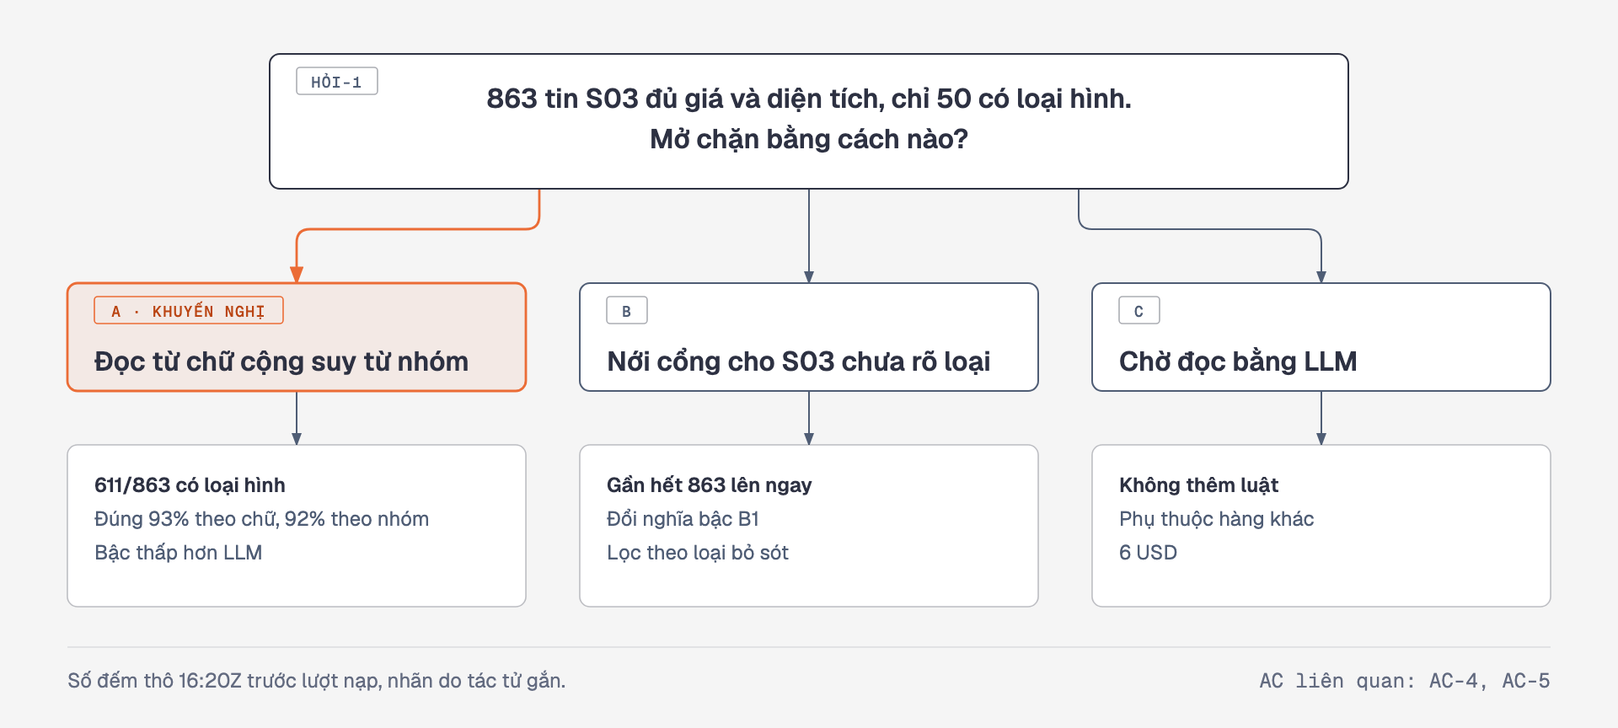
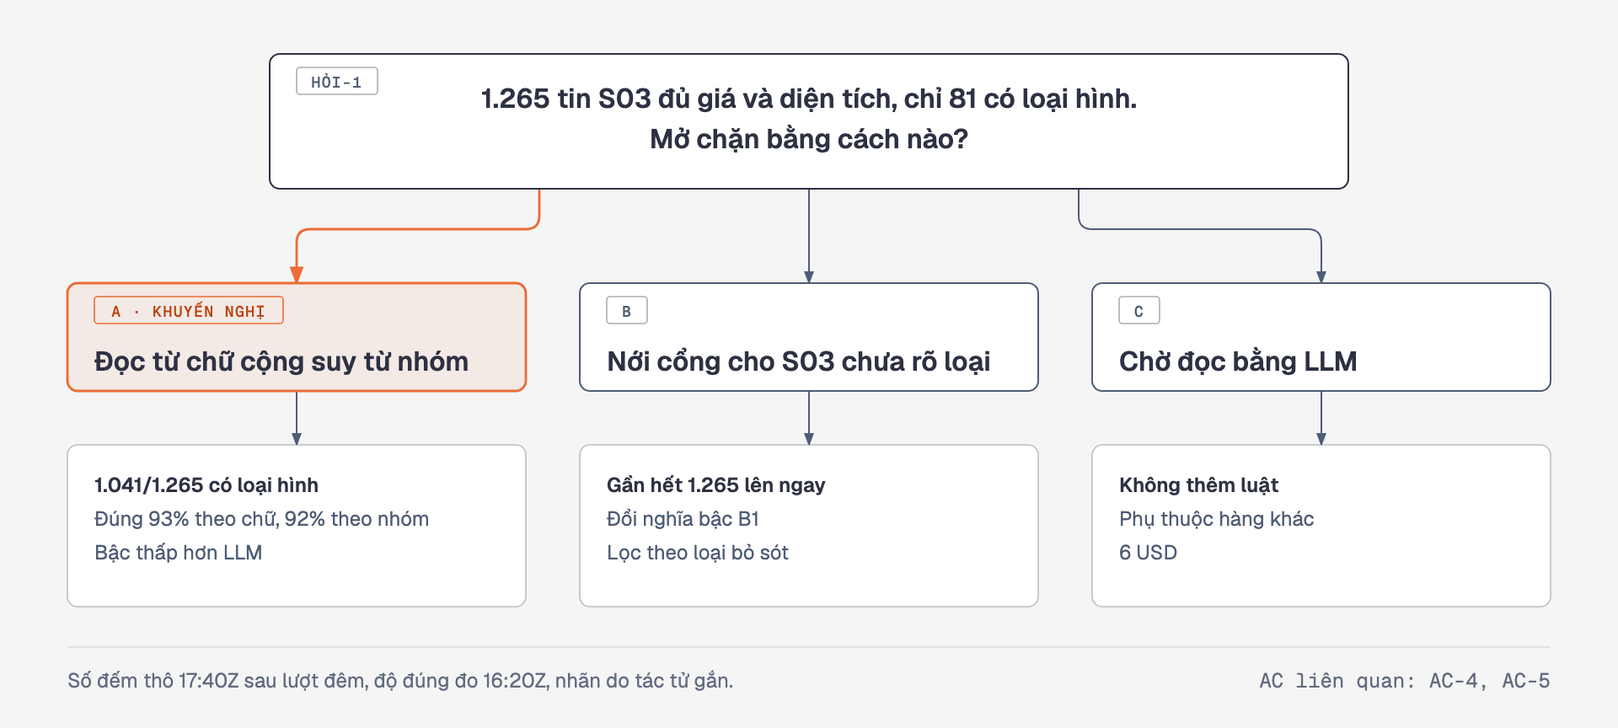
docs(s03-len-cong): đo lại sau lượt đêm, ước 839 tin lên cổng, hụt đích 900
Số 17:38Z trên DB chung khớp số giám sát đo 17:37Z. Ba câu Hỏi thay số cũ
bằng dòng sổ supersedes, thẻ và hai hình vẽ lại. Lượt đêm chưa chạy
reassign-areas rồi 300, 400; không cần chạy trước khi đo.

diff --git a/_acceptance/s03-len-cong/card.html b/_acceptance/s03-len-cong/card.html
@@ -32,16 +32,16 @@
 <div class="h"><div><div class="ft">Nhà đầu tư thấy tin S03 trên trang tin rao, kể cả tin không nói phường (hiện tên thị trường), kèm nhãn «Chưa xác minh».</div><div class="sub">Cổng 1 · duyệt tiêu chí TRƯỚC khi code</div></div><span class="chip amber">duyệt tiêu chí</span></div>
 <div class="lab">Hệ thống SẼ làm</div><div class="grp gdo"><p class="li">Sẽ gán khu vực theo sổ nhóm: nhóm thuộc đúng một thị trường thì tin không nói phường nhận tên thị trường; nhóm chưa khai hay khai nhiều thị trường giữ trống.</p><p class="li">Sẽ giữ nguyên số liệu thị trường và phường hiện có khi thêm các tin cấp thị trường.</p><p class="li">Sẽ đọc loại hình từ chữ bài và từ nhóm, in hai độ đúng riêng trên nhãn do tác tử gắn.</p><p class="li">Sẽ ghi loại hình đúng bậc tin cậy: đọc từ chữ cao hơn suy từ nhóm; đọc bằng LLM hay người vẫn thắng được; chạy lại không sinh thêm.</p><p class="li">Sẽ có lệnh khai sổ 30 nhóm và thẻ từ tệp nháp trên máy, chạy lại không đổi, không in khoá hay tên nhóm.</p><p class="li">Sẽ in phép đo toàn bộ: bao nhiêu tin rơi ở từng chặn của cổng, gồm số tin nhánh phường nơi khác.</p><p class="li">Sẽ hiện nhãn «Chưa xác minh» trên thẻ tin S03 và tên thị trường ở chỗ phường, đọc được trên điện thoại, sáng và tối.</p><p class="li">Sẽ báo đúng số tin lên cổng so với 900 và tỉ lệ sai nặng so với 10% trên mẫu 30 tin, không hạ thước; sau khi tin rao (#274) gộp mới đo.</p><p class="li">Sẽ giữ nguyên đường đưa dữ liệu lên cloud, không để tên nguồn thật, khoá nhóm hay chữ bài vào kho.</p></div>
 <div class="lab">Sẽ KHÔNG làm / sẽ chặn</div><div class="grp gnot"><p class="li">Sẽ KHÔNG để tin cấp thị trường vào thước theo phường, dấu hiệu giá hay ghép căn.</p><p class="li">Hoãn/cắt: Không suy phường từ tên dự án, không thêm nhóm S03.</p><p class="li">Hoãn/cắt: Không ghi dự án từ thẻ nhóm, không đọc bằng LLM; đó là việc của hàng đọc tin (LS1).</p><p class="li">Hoãn/cắt: Không tự áp sổ hay nạp lại trên dữ liệu chung; giám sát xếp lượt sau khi anh duyệt sổ. Số trên cloud đọc ở báo cáo 07:30.</p><p class="li">Hoãn/cắt: Không đổi đường đồng bộ lên cloud, không đưa sổ nhóm lên cloud.</p></div>
-<div class="lab">Câu chỉ anh trả lời được</div><div class="grp gdo"><p class="li" data-cau-hoi="Hỏi-1"><b>Hỏi-1</b> · Hỏi-1: chặn loại hình của cổng TR1 mở bằng đọc từ chữ cộng suy từ nhóm (khuyến nghị), hay nới cổng cho S03 chưa rõ loại, hay chờ LS1? — Đo 16:15Z: 863 tin qua ngưỡng giá chỉ 50 có loại hình; kế hoạch §3 không nêu chặn này. Đổi điều kiện cổng là nghĩa sản phẩm người dùng thấy. — sai thì tốn: Chọn sai thì hoặc tin sai loại lên cổng, hoặc S03 gần như không lên. — máy khuyên: Đọc từ chữ cộng suy từ nhóm: ghi bậc thấp hơn LLM, lên khoảng 611 trên 863 tin theo đếm thô, LS1 cộng thêm khi xong. · lối khác: Nới cổng cho S03 chưa rõ loại: lên ngay gần hết 863 tin nhưng đổi nghĩa bậc B1 và lọc theo loại bỏ sót chúng. Chờ LS1: không thêm luật nhưng SL1 phụ thuộc dãy khác và duyệt 6 USD.</p><p class="li" data-cau-hoi="Hỏi-2"><b>Hỏi-2</b> · Hỏi-2: nhóm khai một thị trường mà chữ nêu tên phường của thị trường khác thì nhận mã thị trường của nhóm (khuyến nghị) hay để trống? — Đo 16:20Z theo sổ nháp: 2/740 tin; đường hiện tại của nhóm đã khai chỉ đối chiếu phường của thị trường đó (pipeline/transform-zalo.mjs). — sai thì tốn: Khoảng hai tin hiện sai thị trường, hoặc mất khỏi cổng; đổi lại rẻ. — máy khuyên: Nhận mã của nhóm: audit cho thấy khớp tên phường hay nhầm, nhóm dự án đáng tin hơn. · lối khác: Để trống: mất khoảng hai tin khỏi cổng, thêm một lần đối chiếu mọi thị trường.</p><p class="li" data-cau-hoi="Hỏi-3"><b>Hỏi-3</b> · Hỏi-3: duyệt nháp sổ 30 nhóm và thẻ của 16 tên nhóm (bốn thẻ, đã gửi anh) hay sửa hàng nào? — Kế hoạch §5 giao người duyệt sổ; theo nháp 748/863 tin thuộc nhóm khai một thị trường. Sổ nằm ngoài kho vì có tên nhóm. — sai thì tốn: Nhóm khai sai thì tin hiện sai thị trường; sửa một hàng sổ rồi nạp lại là xong. — máy khuyên: Duyệt nháp; soát kỹ N027, N019 (tin cậy thấp) và năm nhóm không khai. · lối khác: Sửa theo mã nhóm; hàng chưa chắc để không khai, tin nhóm đó không lên cổng.</p></div>
+<div class="lab">Câu chỉ anh trả lời được</div><div class="grp gdo"><p class="li" data-cau-hoi="Hỏi-1"><b>Hỏi-1</b> · Hỏi-1: chặn loại hình của cổng TR1 mở bằng đọc từ chữ cộng suy từ nhóm (khuyến nghị), hay nới cổng cho S03 chưa rõ loại, hay chờ LS1? — Đo lại 17:38Z sau lượt đêm: 1.265 tin qua ngưỡng giá chỉ 81 có loại hình; kế hoạch §3 không nêu chặn này. Đổi điều kiện cổng là nghĩa sản phẩm người dùng thấy. — sai thì tốn: Chọn sai thì hoặc tin sai loại lên cổng, hoặc S03 gần như không lên. — máy khuyên: Đọc từ chữ cộng suy từ nhóm: ghi bậc thấp hơn LLM, có loại hình khoảng 1.041 trên 1.265 tin theo đếm thô, LS1 cộng thêm khi xong. · lối khác: Nới cổng cho S03 chưa rõ loại: lên ngay gần hết 1.265 tin nhưng đổi nghĩa bậc B1 và lọc theo loại bỏ sót chúng. Chờ LS1: không thêm luật nhưng SL1 phụ thuộc dãy khác và duyệt 6 USD.</p><p class="li" data-cau-hoi="Hỏi-2"><b>Hỏi-2</b> · Hỏi-2: nhóm khai một thị trường mà chữ nêu tên phường của thị trường khác thì nhận mã thị trường của nhóm (khuyến nghị) hay để trống? — Đo lại 17:40Z theo sổ nháp: 2/1.035 tin; đường hiện tại của nhóm đã khai chỉ đối chiếu phường của thị trường đó (pipeline/transform-zalo.mjs). — sai thì tốn: Khoảng hai tin hiện sai thị trường, hoặc mất khỏi cổng; đổi lại rẻ. — máy khuyên: Nhận mã của nhóm: audit cho thấy khớp tên phường hay nhầm, nhóm dự án đáng tin hơn. · lối khác: Để trống: mất khoảng hai tin khỏi cổng, thêm một lần đối chiếu mọi thị trường.</p><p class="li" data-cau-hoi="Hỏi-3"><b>Hỏi-3</b> · Hỏi-3: duyệt nháp sổ 30 nhóm và thẻ của 16 tên nhóm (bốn thẻ, đã gửi anh) hay sửa hàng nào? — Kế hoạch §5 giao người duyệt sổ; theo nháp 1.058/1.265 tin thuộc nhóm khai một thị trường. Sổ nằm ngoài kho vì có tên nhóm. — sai thì tốn: Nhóm khai sai thì tin hiện sai thị trường; sửa một hàng sổ rồi nạp lại là xong. — máy khuyên: Duyệt nháp; soát kỹ N027, N019 (tin cậy thấp) và năm nhóm không khai. · lối khác: Sửa theo mã nhóm; hàng chưa chắc để không khai, tin nhóm đó không lên cổng.</p></div>
 <div class="lab">Máy đã quyết ở bước thiết kế — anh lật được</div><div class="grp gnot"><p class="li" data-may-quyet="d-20261102T161633Z-1">Đã tra tri thức: S03 lên cổng: sổ nhóm, thẻ nhóm lớn, tin không nói phường nhận khu vực cấp thị trường, nhãn chưa xác minh — Kho đã khai tri_thuc — bước thiết kế tra trang trước khi chọn. — sai thì tốn: Không tra thì bối cảnh nghiên cứu và thảo luận không tới vòng này. — lối khác chết vì: Kho đã khai tri_thuc — bỏ tra là phạm luật nạp của kit.</p><p class="li" data-may-quyet="d-20261102T161633Z-3">Không nới khu vực ở cột phường: tin cấp thị trường để phuong_raw trống, confidence không lên high. — Kế hoạch ghi tin nhận khu vực cấp thị trường không có dấu hiệu theo phường; confidence high đang nghĩa là đủ giá, diện tích, phường (pipeline/transform-zalo.mjs). — sai thì tốn: Nếu sai, tin cấp thị trường lẫn vào thước theo phường và số dấu hiệu sai. — căn cứ: «Tin nhận khu vực cấp thị trường không có dấu hiệu theo phường.» (docs/plan/ra-mat-0511-so-luong-chat-luong.md)</p><p class="li" data-may-quyet="d-20261102T162158Z-7">Cổng Đáng: decided_by Mạnh, lời «Chốt, chuyển việc» 15:41:12Z ở phiên MT, phạm vi là §3 việc 3 của bản kế hoạch; giới hạn «chỉ việc 3» là của giám sát. — Thay câu trích cũ: câu người nói nằm ở phiên MT, tệp chỉ mang nội dung việc. — sai thì tốn: Cổng Đáng ghi sai lời người; đảo bằng veto ở Cổng Phạm vi. — căn cứ: «S03 lên cổng: khai sổ nhóm 30 nhóm, thẻ 16 nhóm lớn; tin không nói phường nhận khu vực cấp thị trường; kèm nhãn «chưa xác minh»» (docs/plan/ra-mat-0511-so-luong-chat-luong.md)</p><p class="li" data-may-quyet="d-20261102T162158Z-9">Tin cấp thị trường hiện tên thị trường ở chỗ phường và không vào kết quả lọc theo phường. — Tin không có phường để hiện hay để lọc; kế hoạch giao khu vực cấp thị trường. — sai thì tốn: Người lọc phường không thấy tin này; họ vẫn thấy khi xem cả thị trường. — lối khác chết vì: Đưa tin vào mọi lọc phường thì mỗi phường hiện tin không thuộc phường đó, sai nghĩa của bộ lọc.</p><p class="li" data-may-quyet="d-20261102T162158Z-10">Hạng T2 thay vì T3 lộ trình ước: thiết kế không có migration, không đổi sync-cloud; Cổng Phạm vi vẫn dừng chờ Mạnh vì sổ có Hỏi. — _acceptance/config.yaml t3_paths chỉ gồm db/migrations và pipeline/sync-cloud.mjs ở lớp dữ liệu; không tệp nào của thiết kế khớp. Tin rao ra người dùng thật vẫn là khó đảo, nên Cổng Bằng chứng vẫn hỏi người. — sai thì tốn: Không có Cổng 1.5 duyệt kế hoạch; nếu thi công cần migration thì nâng T3 và quay lại. — căn cứ: «- &quot;pipeline/sync-cloud.mjs&quot; # dữ liệu rời máy (PII tầng A)» (_acceptance/config.yaml)</p><p class="li" data-may-quyet="d-20261102T162158Z-11"><b>KHÔNG làm:</b> Thẻ 16 nhóm chỉ được lưu vào cột note của sổ trong hàng này, chưa có bên đọc; bên đọc là LS1. — Audit §6: thẻ tác động toà, mã căn, dự án qua LLM, không đổi giá, diện tích, phòng ngủ, nên không mở chặn nào của cổng. — sai thì tốn: Thẻ không tác dụng nếu LS1 bị cắt theo §4 mục 5; vẫn nằm sẵn trong sổ. — căn cứ: «Sổ PL12 đã có sẵn chỗ (`market_codes`, `project_node_ids`, `note`) nhưng **rỗng cho cả 30 nhóm**.» (docs/research/s03-audit-trich-xuat-0211.md)</p><p class="li" data-may-quyet="d-20261102T162158Z-12"><b>KHÔNG làm:</b> bỏ design-pass — chỉ thêm một Badge vào thẻ tin của #274, thẻ chưa có trên main nên không có bản bấm được ở Cổng Phạm vi — app/src/components/listing/offer-card.tsx chỉ có trên nhánh #274; AC-8 chụp bốn tổ hợp ở S4. — sai thì tốn: Gate 1 duyệt UI bằng chữ — mất khoảnh khắc visual trước duyệt; nhãn đổi được rẻ ở Cổng Bằng chứng. — lối khác chết vì: Dựng bản bấm trên nhánh chưa gộp thì phải chép mã #274 vào vòng này, chồng vùng với hàng TR1 đang chờ ký.</p></div>
 <div class="lab">Quyết định &amp; trade-off</div>
-<div class="grp gnot"><p class="li"><b>KHÔNG làm:</b> bỏ coverage-scan — phạm vi là việc 3 đã chốt và chặn của cổng đã đo, trục liệt ở Coverage; đổi lại không có bằng chứng độ phủ từ quét hình thái — Không gian việc đã rời rạc và do kế hoạch §3 định; bên đọc khu vực liệt bằng grep. — sai thì tốn: Một bên đọc ngoài grep sót lại, lộ ở AC-9 hay sau ra mắt.</p><p class="li"><b>KHÔNG làm:</b> bỏ design-pass — chỉ thêm một Badge vào thẻ tin của #274, thẻ chưa có trên main nên không có bản bấm được ở Cổng Phạm vi — Giám sát xếp phần app/src/components/listing sau khi #274 gộp; AC-8 chụp ở S4. — sai thì tốn: Gate 1 duyệt UI bằng chữ — mất khoảnh khắc visual trước duyệt; nhãn đổi được rẻ ở Cổng Bằng chứng.</p></div>
+<div class="grp gnot"><p class="li"><b>KHÔNG làm:</b> bỏ coverage-scan — phạm vi là việc 3 đã chốt và chặn của cổng đã đo, trục liệt ở Coverage; đổi lại không có bằng chứng độ phủ từ quét hình thái — Không gian việc đã rời rạc và do kế hoạch §3 định; bên đọc khu vực liệt bằng grep. — sai thì tốn: Một bên đọc ngoài grep sót lại, lộ ở AC-9 hay sau ra mắt.</p><p class="li"><b>KHÔNG làm:</b> bỏ design-pass — chỉ thêm một Badge vào thẻ tin của #274, thẻ chưa có trên main nên không có bản bấm được ở Cổng Phạm vi — Giám sát xếp phần app/src/components/listing sau khi #274 gộp; AC-8 chụp ở S4. — sai thì tốn: Gate 1 duyệt UI bằng chữ — mất khoảnh khắc visual trước duyệt; nhãn đổi được rẻ ở Cổng Bằng chứng.</p><p class="li">Ghi rõ ở Cổng Phạm vi: đích ≥ 900 ước hụt 61 tin, phần giao loại hình và khu vực ước 839/1.265; không nới thước để đủ số. — Đo 17:38Z, ghi ở mục «Số đo lại sau lượt đêm» của bản thiết kế; 900 là 71% của 1.272 tin, phần giao đạt 66%, 553 tin lấy loại hình bằng suy từ nhóm. — sai thì tốn: Số là đếm thô bằng biểu thức và sổ nháp, số thật do AC-9 đo; lệch thì chỉ đổi mức cảnh báo, ngưỡng không chặn ra mắt.</p></div>
 <div class="lab">Độ phủ AC (bằng chứng "đủ")</div><div class="grp gnot"><p class="li">Mọi tổ hợp nhóm và chữ đều có đáp án khu vực (AC-1, gán khu vực).</p><p class="li">Mọi nơi đọc khu vực của tin đều được quét toàn kho so với bảng viết trước; nơi đọc lạ thì đỏ (AC-2, AC-3, AC-8).</p><p class="li">Loại hình phủ chữ, nhóm, LLM có sẵn và chạy lại; đo trên 383 bài nhãn tác tử, chưa kiểm chứng (AC-4, AC-5).</p><p class="li">Sổ nhóm phủ đọc, ghi, chạy lại, lỗi (AC-6, lệnh khai sổ).</p><p class="li">Toàn bộ dữ liệu đo qua đúng các chặn của cổng (AC-7, AC-9).</p><p class="li">Luật về tầng A, cloud và an toàn S03 có quét riêng (AC-10).</p></div>
 <div class="lab">Nền hạ tầng (máy kiểm trước khi vòng viết gì)</div><div class="grp gnot"><p class="li">Nền: <b>xanh</b> · công cụ xanh · bộ kiểm xanh · lưới như CI xanh · bộ máy xanh</p><p class="li"><b>Tệp của chính vòng — nền không tính (7)</b></p><p class="li">nen suite: TEP CUA VONG _acceptance/config.yaml (khong tinh)</p><p class="li">nen suite: TEP CUA VONG _acceptance/s03-len-cong/opportunity.md (khong tinh)</p><p class="li">nen suite: TEP CUA VONG _acceptance/s03-len-cong/contract.md (khong tinh)</p><p class="li">nen suite: TEP CUA VONG _acceptance/s03-len-cong/decisions.jsonl (khong tinh)</p><p class="li">nen suite: TEP CUA VONG _acceptance/s03-len-cong/evals.yaml (khong tinh)</p><p class="li">nen suite: TEP CUA VONG _acceptance/s03-len-cong/gap-probe.md (khong tinh)</p><p class="li">nen suite: TEP CUA VONG docs/superpowers/specs/2026-11-02-s03-len-cong-design.md (khong tinh)</p></div>
 <div class="lab">Đường đo (con số cho ngưỡng sẽ đến từ đâu)</div><div class="grp gnot"><p class="li">«S03 lên cổng ≥ 900 tin» và «sai nặng ≤ 10%»: `pipeline/scripts/do-s03-len-cong.mjs`, AC-9.</p><p class="li">«Tin cấp thị trường không có dấu hiệu theo phường và không làm lệch rollup»: AC-2, AC-3.</p></div>
 <div class="lab">Ngưỡng nghiệm thu — ĐỀ XUẤT CỦA MÁY, anh chưa chốt</div><div class="grp gnot"><p class="li">Câu hỏi phép đo trả lời: [đề xuất] đã đạt «S03 lên cổng ≥ 900 tin; sai nặng ≤ 10%; tin khu vực cấp thị trường không có dấu hiệu theo phường và không làm lệch rollup 300, 400» chưa?</p><p class="li">Kết quả nào là SỐNG: [đề xuất] S03 lên cổng ≥ 900 tin; sai nặng ≤ 10%; tin khu vực cấp thị trường không có dấu hiệu theo phường và không làm lệch rollup 300, 400</p><p class="li">Kết quả nào là CHẾT: [đề xuất] đường gãy, số lên cổng không vượt 50 khi hết timebox. Dưới 900 mà trên 50 chỉ là cảnh báo, báo đúng số (kế hoạch §1: ngưỡng chỉ để cảnh báo, không chặn ra mắt; §4 mục 6: ra mắt S06 trước)</p><p class="li">Timebox: [đề xuất] 2026-11-04 (mốc Ba việc của kế hoạch ra mắt 05/11 xong; từ 22:00 ngày 04/11 chỉ gộp bản vá đường ống)</p><p class="li">Vòng này sẽ có phiên nghiệm thu sau khi giao — số đo thật sẽ đặt cạnh các ngưỡng trên.</p></div>
-<div class="lab">Phản biện context sạch</div><div class="grp gnot"><p class="li"><b>P0</b> · Chưa hỏi anh ca chữ nói phường nơi khác. Đã đo: 2 trên 740 tin, đưa thành Hỏi-2.</p><p class="li"><b>P0</b> · Năm lựa chọn thiếu căn cứ (bỏ bản bấm được, tin ngoài lọc phường, hạ hạng, thẻ chưa ai đọc, câu trích Cổng Đáng). Đã thêm dòng sổ có căn cứ.</p><p class="li"><b>P1</b> · Có thể xanh hết mà cổng vẫn gần như không có tin S03. Đã thêm ca đi trọn đường tới trang và sàn 50 tin làm đỏ phép đo.</p><p class="li"><b>P1</b> · Phép kiểm hẹp hơn tiêu chí. Đã siết: băm dòng phường, cặp đối chứng, quét toàn kho, đủ bốn tổ hợp giao diện.</p><p class="li"><b>P1</b> · Chưa đo độ đúng suy từ nhóm và chưa định nghĩa sai nặng. Đã đo 93%, 92%; sai nặng ghi sẵn trong tiêu chí trước khi đo.</p></div>
-<div class="lab">Cần chú ý trước khi duyệt</div><div class="flag finfo">Từ vựng: feature này không thêm/sửa term nào trong CONTEXT.md.</div><div class="flag fwarn">AC-1 có ngưỡng/biên nhưng chưa có ca "dưới ngưỡng → KHÔNG xảy ra" — thêm 1 ca chặn ngay sẽ rẻ hơn nhiều so với phát hiện sau.</div><div class="flag fwarn">AC-4 có ngưỡng/biên nhưng chưa có ca "dưới ngưỡng → KHÔNG xảy ra" — thêm 1 ca chặn ngay sẽ rẻ hơn nhiều so với phát hiện sau.</div><div class="flag fwarn">Ngưỡng nghiệm thu đang là ĐỀ XUẤT CỦA MÁY — anh chưa chốt. Thẻ KHÔNG coi đây là lời khai của anh; chốt ở Cổng Đáng trước khi duyệt.</div><div class="flag fwarn">Coverage có trục chưa nêu được thước đo "đủ" (CE chưa kiểm chứng) — hỏi nguồn đối chiếu trước khi tin "đã quét đủ".</div><div class="flag fwarn">2 dòng sổ đời trước ở bước thiết kế chưa ghi nguồn căn cứ — thẻ đọc chúng như cũ.</div>
-<div class="lab">👉 VIỆC CỦA ANH</div><div class="grp gdo"><p class="li"><b>Duyệt hay trả hồ sơ này</b> — làm gì: đọc hai khối SẼ làm / KHÔNG làm và các cờ chú ý ở trên; ở đâu: trả lời ngay trong phiên đang trình thẻ; trả lời dạng: «Duyệt» hoặc «Sửa: nêu điều cần đổi».</p><p class="li"><b>Hỏi-1</b> — Hỏi-1: chặn loại hình của cổng TR1 mở bằng đọc từ chữ cộng suy từ nhóm (khuyến nghị), hay nới cổng cho S03 chưa rõ loại, hay chờ LS1?: máy khuyên Đọc từ chữ cộng suy từ nhóm: ghi bậc thấp hơn LLM, lên khoảng 611 trên 863 tin theo đếm thô, LS1 cộng thêm khi xong.; «duyệt» là nhận khuyến nghị, chọn lối khác thì trả lời «sửa: Hỏi-1 = &lt;lối&gt;».</p><p class="li"><b>Hỏi-2</b> — Hỏi-2: nhóm khai một thị trường mà chữ nêu tên phường của thị trường khác thì nhận mã thị trường của nhóm (khuyến nghị) hay để trống?: máy khuyên Nhận mã của nhóm: audit cho thấy khớp tên phường hay nhầm, nhóm dự án đáng tin hơn.; «duyệt» là nhận khuyến nghị, chọn lối khác thì trả lời «sửa: Hỏi-2 = &lt;lối&gt;».</p><p class="li"><b>Hỏi-3</b> — Hỏi-3: duyệt nháp sổ 30 nhóm và thẻ của 16 tên nhóm (bốn thẻ, đã gửi anh) hay sửa hàng nào?: máy khuyên Duyệt nháp; soát kỹ N027, N019 (tin cậy thấp) và năm nhóm không khai.; «duyệt» là nhận khuyến nghị, chọn lối khác thì trả lời «sửa: Hỏi-3 = &lt;lối&gt;».</p><p class="li">Trả lời mẫu (một dòng, điền vào chỗ trống): «duyệt hay sửa: ___»</p></div><div class="mach">Dòng lệnh đã điền sẵn khuyến nghị: <b>/acceptance-gate:approve s03-len-cong duyệt</b></div><div class="mach goal">Sau khi trả lời (duyệt hay sửa), dán dòng này để đoạn máy chạy tới cổng kế: <b>/goal Feature s03-len-cong: coi là HOÀN THÀNH chỉ khi transcript cho thấy phiên chính đã trình thẻ Cổng Bằng chứng của vòng s03-len-cong, hoặc (làn V) đã mở PR ở S5, hoặc đã dừng ở một cổng có tên — Cổng Phạm vi, Gate 1.5, trần 3 round, dừng-vá, DỪNG-lỗi có tên. Lượt BLOCKED vì hạ tầng chưa thử lại cùng round = CHƯA hoàn thành: máy thử lại, không hỏi. Chỉ neo vào việc phiên đã trình trong transcript, không neo vào trạng thái tệp. Hoặc dừng sau 15 turns.</b></div>
+<div class="lab">Phản biện context sạch</div><div class="grp gnot"><p class="li"><b>P0</b> · Chưa hỏi anh ca chữ nói phường nơi khác. Đã đo: 2 trên 1.035 tin, đưa thành Hỏi-2.</p><p class="li"><b>P0</b> · Năm lựa chọn thiếu căn cứ (bỏ bản bấm được, tin ngoài lọc phường, hạ hạng, thẻ chưa ai đọc, câu trích Cổng Đáng). Đã thêm dòng sổ có căn cứ.</p><p class="li"><b>P1</b> · Có thể xanh hết mà cổng vẫn gần như không có tin S03. Đã thêm ca đi trọn đường tới trang và sàn 50 tin làm đỏ phép đo.</p><p class="li"><b>P1</b> · Phép kiểm hẹp hơn tiêu chí. Đã siết: băm dòng phường, cặp đối chứng, quét toàn kho, đủ bốn tổ hợp giao diện.</p><p class="li"><b>P1</b> · Chưa đo độ đúng suy từ nhóm và chưa định nghĩa sai nặng. Đã đo 93%, 92%; sai nặng ghi sẵn trong tiêu chí trước khi đo.</p></div>
+<div class="lab">Cần chú ý trước khi duyệt</div><div class="flag finfo">Từ vựng: feature này không thêm/sửa term nào trong CONTEXT.md.</div><div class="flag fwarn">AC-1 có ngưỡng/biên nhưng chưa có ca "dưới ngưỡng → KHÔNG xảy ra" — thêm 1 ca chặn ngay sẽ rẻ hơn nhiều so với phát hiện sau.</div><div class="flag fwarn">AC-4 có ngưỡng/biên nhưng chưa có ca "dưới ngưỡng → KHÔNG xảy ra" — thêm 1 ca chặn ngay sẽ rẻ hơn nhiều so với phát hiện sau.</div><div class="flag fwarn">Ngưỡng nghiệm thu đang là ĐỀ XUẤT CỦA MÁY — anh chưa chốt. Thẻ KHÔNG coi đây là lời khai của anh; chốt ở Cổng Đáng trước khi duyệt.</div><div class="flag fwarn">Coverage có trục chưa nêu được thước đo "đủ" (CE chưa kiểm chứng) — hỏi nguồn đối chiếu trước khi tin "đã quét đủ".</div><div class="flag fwarn">3 dòng sổ đời trước ở bước thiết kế chưa ghi nguồn căn cứ — thẻ đọc chúng như cũ.</div>
+<div class="lab">👉 VIỆC CỦA ANH</div><div class="grp gdo"><p class="li"><b>Duyệt hay trả hồ sơ này</b> — làm gì: đọc hai khối SẼ làm / KHÔNG làm và các cờ chú ý ở trên; ở đâu: trả lời ngay trong phiên đang trình thẻ; trả lời dạng: «Duyệt» hoặc «Sửa: nêu điều cần đổi».</p><p class="li"><b>Hỏi-1</b> — Hỏi-1: chặn loại hình của cổng TR1 mở bằng đọc từ chữ cộng suy từ nhóm (khuyến nghị), hay nới cổng cho S03 chưa rõ loại, hay chờ LS1?: máy khuyên Đọc từ chữ cộng suy từ nhóm: ghi bậc thấp hơn LLM, có loại hình khoảng 1.041 trên 1.265 tin theo đếm thô, LS1 cộng thêm khi xong.; «duyệt» là nhận khuyến nghị, chọn lối khác thì trả lời «sửa: Hỏi-1 = &lt;lối&gt;».</p><p class="li"><b>Hỏi-2</b> — Hỏi-2: nhóm khai một thị trường mà chữ nêu tên phường của thị trường khác thì nhận mã thị trường của nhóm (khuyến nghị) hay để trống?: máy khuyên Nhận mã của nhóm: audit cho thấy khớp tên phường hay nhầm, nhóm dự án đáng tin hơn.; «duyệt» là nhận khuyến nghị, chọn lối khác thì trả lời «sửa: Hỏi-2 = &lt;lối&gt;».</p><p class="li"><b>Hỏi-3</b> — Hỏi-3: duyệt nháp sổ 30 nhóm và thẻ của 16 tên nhóm (bốn thẻ, đã gửi anh) hay sửa hàng nào?: máy khuyên Duyệt nháp; soát kỹ N027, N019 (tin cậy thấp) và năm nhóm không khai.; «duyệt» là nhận khuyến nghị, chọn lối khác thì trả lời «sửa: Hỏi-3 = &lt;lối&gt;».</p><p class="li">Trả lời mẫu (một dòng, điền vào chỗ trống): «duyệt hay sửa: ___»</p></div><div class="mach">Dòng lệnh đã điền sẵn khuyến nghị: <b>/acceptance-gate:approve s03-len-cong duyệt</b></div><div class="mach goal">Sau khi trả lời (duyệt hay sửa), dán dòng này để đoạn máy chạy tới cổng kế: <b>/goal Feature s03-len-cong: coi là HOÀN THÀNH chỉ khi transcript cho thấy phiên chính đã trình thẻ Cổng Bằng chứng của vòng s03-len-cong, hoặc (làn V) đã mở PR ở S5, hoặc đã dừng ở một cổng có tên — Cổng Phạm vi, Gate 1.5, trần 3 round, dừng-vá, DỪNG-lỗi có tên. Lượt BLOCKED vì hạ tầng chưa thử lại cùng round = CHƯA hoàn thành: máy thử lại, không hỏi. Chỉ neo vào việc phiên đã trình trong transcript, không neo vào trạng thái tệp. Hoặc dừng sau 15 turns.</b></div>
 <div class="foot"><span class="rev">↻ Sửa 1 dòng tiêu chí GIỜ rẻ hơn 10× phát hiện sai sau khi code.</span><div class="btns"><button class="b no">Sửa lại</button><button class="b yes">Duyệt, cho code</button></div></div>
 </div></div>

diff --git a/_acceptance/s03-len-cong/figures/hoi-1-loai-hinh.html b/_acceptance/s03-len-cong/figures/hoi-1-loai-hinh.html
@@ -14,5 +14,5 @@ svg{display:block;width:100%;height:auto}
 <svg xmlns="http://www.w3.org/2000/svg" viewBox="0 0 960 432" role="img" aria-label="Hỏi-1: chặn loại hình"><defs>
 <marker id="arrow" markerWidth="8" markerHeight="6" refX="7" refY="3" orient="auto"><polygon points="0 0, 8 3, 0 6" fill="#4f5d75"/></marker>
 <marker id="arrow-accent" markerWidth="8" markerHeight="6" refX="7" refY="3" orient="auto"><polygon points="0 0, 8 3, 0 6" fill="#eb6c36"/></marker>
-</defs><rect width="100%" height="100%" fill="#f5f5f5"/><path d="M320 112 V128 Q320 136 312 136 H184 Q176 136 176 144 V168" fill="none" stroke="#eb6c36" stroke-width="1.4" marker-end="url(#arrow-accent)"/><path d="M480 112 V168" fill="none" stroke="#4f5d75" stroke-width="1" marker-end="url(#arrow)"/><path d="M640 112 V128 Q640 136 648 136 H776 Q784 136 784 144 V168" fill="none" stroke="#4f5d75" stroke-width="1" marker-end="url(#arrow)"/><path d="M176 232 V264" fill="none" stroke="#4f5d75" stroke-width="1" marker-end="url(#arrow)"/><path d="M480 232 V264" fill="none" stroke="#4f5d75" stroke-width="1" marker-end="url(#arrow)"/><path d="M784 232 V264" fill="none" stroke="#4f5d75" stroke-width="1" marker-end="url(#arrow)"/><rect x="160" y="32" width="640" height="80" rx="6" fill="#ffffff" stroke="#2d3142" stroke-width="1"/><rect x="176" y="40" width="48" height="16" rx="2" fill="none" stroke="rgba(45,49,66,0.40)" stroke-width="0.8"/><text x="200" y="52" class="mono" font-size="9" font-weight="500" letter-spacing="0.08em" text-anchor="middle" fill="#4f5d75">HỎI-1</text><text x="480" y="64" class="sans" font-size="16" font-weight="600" text-anchor="middle" fill="#2d3142">863 tin S03 đủ giá và diện tích, chỉ 50 có loại hình.</text><text x="480" y="88" class="sans" font-size="16" font-weight="600" text-anchor="middle" fill="#2d3142">Mở chặn bằng cách nào?</text><rect x="40" y="168" width="272" height="64" rx="6" fill="#f5f5f5"/><rect x="40" y="168" width="272" height="64" rx="6" fill="rgba(235,108,54,0.08)" stroke="#eb6c36" stroke-width="1.4"/><rect x="56" y="176" width="112" height="16" rx="2" fill="none" stroke="#eb6c36" stroke-width="0.8"/><text x="112" y="188" class="mono" font-size="9" font-weight="500" letter-spacing="0.08em" text-anchor="middle" fill="#ba4513">A · KHUYẾN NGHỊ</text><text x="56" y="220" class="sans" font-size="16" font-weight="600" fill="#2d3142">Đọc từ chữ cộng suy từ nhóm</text><rect x="344" y="168" width="272" height="64" rx="6" fill="#f5f5f5"/><rect x="344" y="168" width="272" height="64" rx="6" fill="#ffffff" stroke="#4f5d75" stroke-width="1"/><rect x="360" y="176" width="24" height="16" rx="2" fill="none" stroke="rgba(45,49,66,0.40)" stroke-width="0.8"/><text x="372" y="188" class="mono" font-size="9" font-weight="500" letter-spacing="0.08em" text-anchor="middle" fill="#4f5d75">B</text><text x="360" y="220" class="sans" font-size="16" font-weight="600" fill="#2d3142">Nới cổng cho S03 chưa rõ loại</text><rect x="648" y="168" width="272" height="64" rx="6" fill="#f5f5f5"/><rect x="648" y="168" width="272" height="64" rx="6" fill="#ffffff" stroke="#4f5d75" stroke-width="1"/><rect x="664" y="176" width="24" height="16" rx="2" fill="none" stroke="rgba(45,49,66,0.40)" stroke-width="0.8"/><text x="676" y="188" class="mono" font-size="9" font-weight="500" letter-spacing="0.08em" text-anchor="middle" fill="#4f5d75">C</text><text x="664" y="220" class="sans" font-size="16" font-weight="600" fill="#2d3142">Chờ đọc bằng LLM</text><rect x="40" y="264" width="272" height="96" rx="6" fill="#ffffff" stroke="rgba(45,49,66,0.30)" stroke-width="0.8"/><text x="56" y="292" class="sans" font-size="12" font-weight="600" fill="#2d3142">611/863 có loại hình</text><text x="56" y="312" class="sans" font-size="12" fill="#4f5d75">Đúng 93% theo chữ, 92% theo nhóm</text><text x="56" y="332" class="sans" font-size="12" fill="#4f5d75">Bậc thấp hơn LLM</text><rect x="344" y="264" width="272" height="96" rx="6" fill="#ffffff" stroke="rgba(45,49,66,0.30)" stroke-width="0.8"/><text x="360" y="292" class="sans" font-size="12" font-weight="600" fill="#2d3142">Gần hết 863 lên ngay</text><text x="360" y="312" class="sans" font-size="12" fill="#4f5d75">Đổi nghĩa bậc B1</text><text x="360" y="332" class="sans" font-size="12" fill="#4f5d75">Lọc theo loại bỏ sót</text><rect x="648" y="264" width="272" height="96" rx="6" fill="#ffffff" stroke="rgba(45,49,66,0.30)" stroke-width="0.8"/><text x="664" y="292" class="sans" font-size="12" font-weight="600" fill="#2d3142">Không thêm luật</text><text x="664" y="312" class="sans" font-size="12" fill="#4f5d75">Phụ thuộc hàng khác</text><text x="664" y="332" class="sans" font-size="12" fill="#4f5d75">6 USD</text><line x1="40" y1="384" x2="920" y2="384" stroke="rgba(45,49,66,0.12)" stroke-width="0.8"/><text x="40" y="408" class="sans" font-size="12" fill="#636b80">Số đếm thô 16:20Z trước lượt nạp, nhãn do tác tử gắn.</text><text x="920" y="408" class="mono" font-size="12" text-anchor="end" fill="#636b80">AC liên quan: AC-4, AC-5</text></svg>
+</defs><rect width="100%" height="100%" fill="#f5f5f5"/><path d="M320 112 V128 Q320 136 312 136 H184 Q176 136 176 144 V168" fill="none" stroke="#eb6c36" stroke-width="1.4" marker-end="url(#arrow-accent)"/><path d="M480 112 V168" fill="none" stroke="#4f5d75" stroke-width="1" marker-end="url(#arrow)"/><path d="M640 112 V128 Q640 136 648 136 H776 Q784 136 784 144 V168" fill="none" stroke="#4f5d75" stroke-width="1" marker-end="url(#arrow)"/><path d="M176 232 V264" fill="none" stroke="#4f5d75" stroke-width="1" marker-end="url(#arrow)"/><path d="M480 232 V264" fill="none" stroke="#4f5d75" stroke-width="1" marker-end="url(#arrow)"/><path d="M784 232 V264" fill="none" stroke="#4f5d75" stroke-width="1" marker-end="url(#arrow)"/><rect x="160" y="32" width="640" height="80" rx="6" fill="#ffffff" stroke="#2d3142" stroke-width="1"/><rect x="176" y="40" width="48" height="16" rx="2" fill="none" stroke="rgba(45,49,66,0.40)" stroke-width="0.8"/><text x="200" y="52" class="mono" font-size="9" font-weight="500" letter-spacing="0.08em" text-anchor="middle" fill="#4f5d75">HỎI-1</text><text x="480" y="64" class="sans" font-size="16" font-weight="600" text-anchor="middle" fill="#2d3142">1.265 tin S03 đủ giá và diện tích, chỉ 81 có loại hình.</text><text x="480" y="88" class="sans" font-size="16" font-weight="600" text-anchor="middle" fill="#2d3142">Mở chặn bằng cách nào?</text><rect x="40" y="168" width="272" height="64" rx="6" fill="#f5f5f5"/><rect x="40" y="168" width="272" height="64" rx="6" fill="rgba(235,108,54,0.08)" stroke="#eb6c36" stroke-width="1.4"/><rect x="56" y="176" width="112" height="16" rx="2" fill="none" stroke="#eb6c36" stroke-width="0.8"/><text x="112" y="188" class="mono" font-size="9" font-weight="500" letter-spacing="0.08em" text-anchor="middle" fill="#ba4513">A · KHUYẾN NGHỊ</text><text x="56" y="220" class="sans" font-size="16" font-weight="600" fill="#2d3142">Đọc từ chữ cộng suy từ nhóm</text><rect x="344" y="168" width="272" height="64" rx="6" fill="#f5f5f5"/><rect x="344" y="168" width="272" height="64" rx="6" fill="#ffffff" stroke="#4f5d75" stroke-width="1"/><rect x="360" y="176" width="24" height="16" rx="2" fill="none" stroke="rgba(45,49,66,0.40)" stroke-width="0.8"/><text x="372" y="188" class="mono" font-size="9" font-weight="500" letter-spacing="0.08em" text-anchor="middle" fill="#4f5d75">B</text><text x="360" y="220" class="sans" font-size="16" font-weight="600" fill="#2d3142">Nới cổng cho S03 chưa rõ loại</text><rect x="648" y="168" width="272" height="64" rx="6" fill="#f5f5f5"/><rect x="648" y="168" width="272" height="64" rx="6" fill="#ffffff" stroke="#4f5d75" stroke-width="1"/><rect x="664" y="176" width="24" height="16" rx="2" fill="none" stroke="rgba(45,49,66,0.40)" stroke-width="0.8"/><text x="676" y="188" class="mono" font-size="9" font-weight="500" letter-spacing="0.08em" text-anchor="middle" fill="#4f5d75">C</text><text x="664" y="220" class="sans" font-size="16" font-weight="600" fill="#2d3142">Chờ đọc bằng LLM</text><rect x="40" y="264" width="272" height="96" rx="6" fill="#ffffff" stroke="rgba(45,49,66,0.30)" stroke-width="0.8"/><text x="56" y="292" class="sans" font-size="12" font-weight="600" fill="#2d3142">1.041/1.265 có loại hình</text><text x="56" y="312" class="sans" font-size="12" fill="#4f5d75">Đúng 93% theo chữ, 92% theo nhóm</text><text x="56" y="332" class="sans" font-size="12" fill="#4f5d75">Bậc thấp hơn LLM</text><rect x="344" y="264" width="272" height="96" rx="6" fill="#ffffff" stroke="rgba(45,49,66,0.30)" stroke-width="0.8"/><text x="360" y="292" class="sans" font-size="12" font-weight="600" fill="#2d3142">Gần hết 1.265 lên ngay</text><text x="360" y="312" class="sans" font-size="12" fill="#4f5d75">Đổi nghĩa bậc B1</text><text x="360" y="332" class="sans" font-size="12" fill="#4f5d75">Lọc theo loại bỏ sót</text><rect x="648" y="264" width="272" height="96" rx="6" fill="#ffffff" stroke="rgba(45,49,66,0.30)" stroke-width="0.8"/><text x="664" y="292" class="sans" font-size="12" font-weight="600" fill="#2d3142">Không thêm luật</text><text x="664" y="312" class="sans" font-size="12" fill="#4f5d75">Phụ thuộc hàng khác</text><text x="664" y="332" class="sans" font-size="12" fill="#4f5d75">6 USD</text><line x1="40" y1="384" x2="920" y2="384" stroke="rgba(45,49,66,0.12)" stroke-width="0.8"/><text x="40" y="408" class="sans" font-size="12" fill="#636b80">Số đếm thô 17:40Z sau lượt đêm, độ đúng đo 16:20Z, nhãn do tác tử gắn.</text><text x="920" y="408" class="mono" font-size="12" text-anchor="end" fill="#636b80">AC liên quan: AC-4, AC-5</text></svg>
 </main></body></html>

diff --git a/_acceptance/s03-len-cong/figures/hoi-2-phuong-noi-khac.html b/_acceptance/s03-len-cong/figures/hoi-2-phuong-noi-khac.html
@@ -14,5 +14,5 @@ svg{display:block;width:100%;height:auto}
 <svg xmlns="http://www.w3.org/2000/svg" viewBox="0 0 760 412" role="img" aria-label="Hỏi-2: phường nơi khác"><defs>
 <marker id="arrow" markerWidth="8" markerHeight="6" refX="7" refY="3" orient="auto"><polygon points="0 0, 8 3, 0 6" fill="#4f5d75"/></marker>
 <marker id="arrow-accent" markerWidth="8" markerHeight="6" refX="7" refY="3" orient="auto"><polygon points="0 0, 8 3, 0 6" fill="#eb6c36"/></marker>
-</defs><rect width="100%" height="100%" fill="#f5f5f5"/><path d="M260 112 V128 Q260 136 252 136 H208 Q200 136 200 144 V168" fill="none" stroke="#eb6c36" stroke-width="1.4" marker-end="url(#arrow-accent)"/><path d="M500 112 V128 Q500 136 508 136 H552 Q560 136 560 144 V168" fill="none" stroke="#4f5d75" stroke-width="1" marker-end="url(#arrow)"/><path d="M200 232 V264" fill="none" stroke="#4f5d75" stroke-width="1" marker-end="url(#arrow)"/><path d="M560 232 V264" fill="none" stroke="#4f5d75" stroke-width="1" marker-end="url(#arrow)"/><rect x="120" y="32" width="520" height="80" rx="6" fill="#ffffff" stroke="#2d3142" stroke-width="1"/><rect x="136" y="40" width="48" height="16" rx="2" fill="none" stroke="rgba(45,49,66,0.40)" stroke-width="0.8"/><text x="160" y="52" class="mono" font-size="9" font-weight="500" letter-spacing="0.08em" text-anchor="middle" fill="#4f5d75">HỎI-2</text><text x="380" y="64" class="sans" font-size="16" font-weight="600" text-anchor="middle" fill="#2d3142">Nhóm khai một thị trường, chữ nêu tên phường</text><text x="380" y="88" class="sans" font-size="16" font-weight="600" text-anchor="middle" fill="#2d3142">của thị trường khác: 2 trên 740 tin</text><rect x="40" y="168" width="320" height="64" rx="6" fill="#f5f5f5"/><rect x="40" y="168" width="320" height="64" rx="6" fill="rgba(235,108,54,0.08)" stroke="#eb6c36" stroke-width="1.4"/><rect x="56" y="176" width="112" height="16" rx="2" fill="none" stroke="#eb6c36" stroke-width="0.8"/><text x="112" y="188" class="mono" font-size="9" font-weight="500" letter-spacing="0.08em" text-anchor="middle" fill="#ba4513">A · KHUYẾN NGHỊ</text><text x="56" y="220" class="sans" font-size="16" font-weight="600" fill="#2d3142">Nhận mã thị trường của nhóm</text><rect x="400" y="168" width="320" height="64" rx="6" fill="#f5f5f5"/><rect x="400" y="168" width="320" height="64" rx="6" fill="#ffffff" stroke="#4f5d75" stroke-width="1"/><rect x="416" y="176" width="24" height="16" rx="2" fill="none" stroke="rgba(45,49,66,0.40)" stroke-width="0.8"/><text x="428" y="188" class="mono" font-size="9" font-weight="500" letter-spacing="0.08em" text-anchor="middle" fill="#4f5d75">B</text><text x="416" y="220" class="sans" font-size="16" font-weight="600" fill="#2d3142">Để trống</text><rect x="40" y="264" width="320" height="76" rx="6" fill="#ffffff" stroke="rgba(45,49,66,0.30)" stroke-width="0.8"/><text x="56" y="292" class="sans" font-size="12" font-weight="600" fill="#2d3142">Tin vẫn lên</text><text x="56" y="312" class="sans" font-size="12" fill="#4f5d75">Nếu chữ đúng thì hiện sai thị trường</text><rect x="400" y="264" width="320" height="76" rx="6" fill="#ffffff" stroke="rgba(45,49,66,0.30)" stroke-width="0.8"/><text x="416" y="292" class="sans" font-size="12" font-weight="600" fill="#2d3142">Tin mất khỏi cổng</text><text x="416" y="312" class="sans" font-size="12" fill="#4f5d75">Thêm một lần đối chiếu</text><line x1="40" y1="364" x2="720" y2="364" stroke="rgba(45,49,66,0.12)" stroke-width="0.8"/><text x="720" y="388" class="mono" font-size="12" text-anchor="end" fill="#636b80">AC liên quan: AC-1, AC-7</text></svg>
+</defs><rect width="100%" height="100%" fill="#f5f5f5"/><path d="M260 112 V128 Q260 136 252 136 H208 Q200 136 200 144 V168" fill="none" stroke="#eb6c36" stroke-width="1.4" marker-end="url(#arrow-accent)"/><path d="M500 112 V128 Q500 136 508 136 H552 Q560 136 560 144 V168" fill="none" stroke="#4f5d75" stroke-width="1" marker-end="url(#arrow)"/><path d="M200 232 V264" fill="none" stroke="#4f5d75" stroke-width="1" marker-end="url(#arrow)"/><path d="M560 232 V264" fill="none" stroke="#4f5d75" stroke-width="1" marker-end="url(#arrow)"/><rect x="120" y="32" width="520" height="80" rx="6" fill="#ffffff" stroke="#2d3142" stroke-width="1"/><rect x="136" y="40" width="48" height="16" rx="2" fill="none" stroke="rgba(45,49,66,0.40)" stroke-width="0.8"/><text x="160" y="52" class="mono" font-size="9" font-weight="500" letter-spacing="0.08em" text-anchor="middle" fill="#4f5d75">HỎI-2</text><text x="380" y="64" class="sans" font-size="16" font-weight="600" text-anchor="middle" fill="#2d3142">Nhóm khai một thị trường, chữ nêu tên phường</text><text x="380" y="88" class="sans" font-size="16" font-weight="600" text-anchor="middle" fill="#2d3142">của thị trường khác: 2 trên 1.035 tin</text><rect x="40" y="168" width="320" height="64" rx="6" fill="#f5f5f5"/><rect x="40" y="168" width="320" height="64" rx="6" fill="rgba(235,108,54,0.08)" stroke="#eb6c36" stroke-width="1.4"/><rect x="56" y="176" width="112" height="16" rx="2" fill="none" stroke="#eb6c36" stroke-width="0.8"/><text x="112" y="188" class="mono" font-size="9" font-weight="500" letter-spacing="0.08em" text-anchor="middle" fill="#ba4513">A · KHUYẾN NGHỊ</text><text x="56" y="220" class="sans" font-size="16" font-weight="600" fill="#2d3142">Nhận mã thị trường của nhóm</text><rect x="400" y="168" width="320" height="64" rx="6" fill="#f5f5f5"/><rect x="400" y="168" width="320" height="64" rx="6" fill="#ffffff" stroke="#4f5d75" stroke-width="1"/><rect x="416" y="176" width="24" height="16" rx="2" fill="none" stroke="rgba(45,49,66,0.40)" stroke-width="0.8"/><text x="428" y="188" class="mono" font-size="9" font-weight="500" letter-spacing="0.08em" text-anchor="middle" fill="#4f5d75">B</text><text x="416" y="220" class="sans" font-size="16" font-weight="600" fill="#2d3142">Để trống</text><rect x="40" y="264" width="320" height="76" rx="6" fill="#ffffff" stroke="rgba(45,49,66,0.30)" stroke-width="0.8"/><text x="56" y="292" class="sans" font-size="12" font-weight="600" fill="#2d3142">Tin vẫn lên</text><text x="56" y="312" class="sans" font-size="12" fill="#4f5d75">Nếu chữ đúng thì hiện sai thị trường</text><rect x="400" y="264" width="320" height="76" rx="6" fill="#ffffff" stroke="rgba(45,49,66,0.30)" stroke-width="0.8"/><text x="416" y="292" class="sans" font-size="12" font-weight="600" fill="#2d3142">Tin mất khỏi cổng</text><text x="416" y="312" class="sans" font-size="12" fill="#4f5d75">Thêm một lần đối chiếu</text><line x1="40" y1="364" x2="720" y2="364" stroke="rgba(45,49,66,0.12)" stroke-width="0.8"/><text x="720" y="388" class="mono" font-size="12" text-anchor="end" fill="#636b80">AC liên quan: AC-1, AC-7</text></svg>
 </main></body></html>

diff --git a/docs/superpowers/specs/2026-11-02-s03-len-cong-design.md b/docs/superpowers/specs/2026-11-02-s03-len-cong-design.md
@@ -31,7 +31,7 @@ AC-2 vẫn đo bằng cách so bảng trước và sau. Bên đọc bị ảnh h
 | `resolve-properties` chặng B | So cùng khu vực; S06 không có tin cấp thị trường nên không sinh cặp | Không đổi, AC-3 đo |
 | `reassign-areas` | Chỉ dọn con của thị trường | Không đổi, AC-3 đo |
 
-**Số tin S03 sau lượt SV1 lúc 17:00Z:** ghi ở hợp đồng khi lượt xong. Mô phỏng của audit là 223 tin nghỉ, 425 tin mọc.
+**Số tin S03 sau lượt đêm có SV1:** đo 17:38Z, xem mục «Số đo lại sau lượt đêm».
 
 ## Thiết kế
 
@@ -45,7 +45,7 @@ Làm theo hai đợt trong một hàng, một PR.
    Thẻ nhóm nằm ở `note`; bên đọc là LS1, không phải hàng này.
 2. **Khu vực cấp thị trường.** Trong `transform-zalo.mjs`: không khớp phường và nhóm khai đúng một thị trường thì `area_id` là mã thị
    trường đó; `phuong_raw` trống, `confidence` không lên `high`. Nhóm chưa khai hay khai nhiều thị trường: giữ `NULL`. Chữ nói phường của thị trường
-   khác: nhận mã của nhóm (Hỏi-2; 2/740 tin theo số đo dưới).
+   khác: nhận mã của nhóm (Hỏi-2; 2/1.035 tin theo số đo dưới).
 3. **Loại hình** (Hỏi-1). Từ chữ: cụm tường minh, bài nói cả hai thì không nhận. Từ nhóm: chữ im, nhóm có từ 20 bài nói rõ loại và từ
    85% cùng một loại, là cách `mucDichNhom` đang làm với bán và thuê. Ghi bằng phát biểu `e1_rule`: từ chữ là `observed`, từ nhóm
    là `inferred`, nên LLM (LS1) và người vẫn thắng được. Cột `property_type` nhận giá trị qua `resolve_offer_fields` như mọi phát biểu, `sync-cloud` đã
@@ -57,6 +57,36 @@ Làm theo hai đợt trong một hàng, một PR.
 5. Phản hồi tin có cờ `unverified` (S03 là đúng), không có mã nguồn. Thẻ tin hiện nhãn «Chưa xác minh». Tin cấp thị trường hiện tên thị
    trường, không vào lọc phường.
 6. Đo trên cổng: số tin theo đúng `VISIBLE`, mẫu 30 tin máy chấm sai nặng.
+
+## Số đo lại sau lượt đêm (17:38Z, DB chung, chỉ đọc)
+
+Giám sát đo 17:37Z, em đo lại 17:38Z, khớp từng số.
+
+| Chặng | Số tin S03 |
+|---|---|
+| Tổng, đều là bán hoặc thuê dài hạn | 3.158 |
+| Có giá và diện tích | 1.272 |
+| Qua ngưỡng giá hợp lý của cổng | 1.265 (bán 876, thuê 389) |
+| Có loại hình / có khu vực, trên tổng 3.158 | 128 / 39 |
+| Đủ giá, diện tích, loại hình / thêm khu vực | 81 / 2 |
+
+Ước trên 1.265 tin, cùng cách đếm biểu thức và sổ nháp, chưa qua bộ đọc thật:
+
+| Thước | Kết quả |
+|---|---|
+| Có loại hình (đã có + chữ + nhóm) | 81 + 266 + 694 = 1.041 |
+| Có khu vực (đã có + nhóm khai một thị trường) | 28 + 1.033 = 1.061 |
+| **Phần giao, ước số lên cổng** | **839 (bán 542, thuê 297)** |
+| Phần giao nếu bỏ suy từ nhóm (chỉ đã có + chữ) | 286 |
+| Nhóm khai một thị trường: có phường / chỉ cấp thị trường | 23 / 1.035 |
+| Trong 1.035: chữ có tên phường thuộc thị trường khác | 2 |
+
+**Đích ≥ 900 ước hụt 61 tin.** 900 là 71% của 1.272 tin; phần giao ước đạt 66%. 553 trong 839 tin lấy loại hình bằng suy từ nhóm, nên
+AC-9 chia mẫu theo nguồn loại hình là bắt buộc. Phần còn thiếu trông vào 207 tin chưa có sổ, LS1, và số tin mọc thêm; không nới thước
+để đủ số. `stg_zalo_posts` vẫn dừng ở 05:00Z, nên số này là của lượt đêm, chưa có tin từ sau mốc đó.
+
+Lượt đêm chỉ gọi transform, chưa chạy `reassign-areas` rồi 300, 400. Không cần chạy trước khi đo: `reassign-areas.mjs`, 300 và 400 không
+đọc `sale_offers`, và `transform-zalo.mjs` không ghi `listings`.
 
 ## Số đo trước khi chọn (16:20Z, trước SV1, đếm bằng biểu thức, chưa qua bộ đọc thật)
 
@@ -72,8 +102,7 @@ Làm theo hai đợt trong một hàng, một PR.
 
 Mẫu nhãn audit gần như toàn căn hộ (339/343), nên số theo nhóm trên nhãn (183/183) không nói gì và không được dùng làm căn cứ.
 
-**Đích ≥ 900 chưa chắc đạt trong hàng này**: số thực tế là phần giao của loại hình và khu vực, nhỏ hơn 611; phần còn lại trông vào số tin mọc
-sau SV1 và LS1. Kế hoạch đã ghi ngưỡng chỉ cảnh báo, không chặn ra mắt. AC-9 báo đúng số, không hạ thước; không vượt 50 mới là gãy đường.
+Kế hoạch đã ghi ngưỡng ≥ 900 chỉ cảnh báo, không chặn ra mắt. AC-9 báo đúng số, không hạ thước; không vượt 50 mới là gãy đường.
 
 ## Đặc tả UX
 

diff --git a/_acceptance/s03-len-cong/figures/index.md b/_acceptance/s03-len-cong/figures/index.md
@@ -8,11 +8,11 @@
 | Chín dòng sổ máy đã quyết | dưới ngưỡng: mỗi dòng một lựa chọn có căn cứ | không |
 
 ## `hoi-1-loai-hinh`
-Cây quyết định, đặt câu hỏi ở gốc: «863 tin S03 đủ giá và diện tích, chỉ 50 có loại hình. Mở chặn bằng cách nào?».
-Ba nhánh, mỗi nhánh một ô kết quả: (A, khuyến nghị) đọc từ chữ cộng suy từ nhóm → 611/863 có loại hình; đúng 93% theo chữ, 92% theo nhóm; bậc thấp hơn LLM.
-(B) nới cổng cho S03 chưa rõ loại → gần hết 863 lên ngay; đổi nghĩa bậc B1, lọc theo loại bỏ sót. (C) chờ đọc bằng LLM → không thêm luật; phụ thuộc hàng khác, 6 USD.
-Ghi nhỏ: số đếm thô 16:20Z trước lượt nạp, nhãn do tác tử gắn. AC liên quan: AC-4, AC-5.
+Cây quyết định, đặt câu hỏi ở gốc: «1.265 tin S03 đủ giá và diện tích, chỉ 81 có loại hình. Mở chặn bằng cách nào?».
+Ba nhánh, mỗi nhánh một ô kết quả: (A, khuyến nghị) đọc từ chữ cộng suy từ nhóm → 1.041/1.265 có loại hình; đúng 93% theo chữ, 92% theo nhóm; bậc thấp hơn LLM.
+(B) nới cổng cho S03 chưa rõ loại → gần hết 1.265 lên ngay; đổi nghĩa bậc B1, lọc theo loại bỏ sót. (C) chờ đọc bằng LLM → không thêm luật; phụ thuộc hàng khác, 6 USD.
+Ghi nhỏ: số đếm thô 17:40Z sau lượt đêm, độ đúng đo 16:20Z, nhãn do tác tử gắn. AC liên quan: AC-4, AC-5.
 
 ## `hoi-2-phuong-noi-khac`
-Cây hai nhánh. Gốc: «Nhóm khai một thị trường, chữ nêu tên phường của thị trường khác: 2 trên 740 tin». (A, khuyến nghị) nhận mã thị trường của nhóm → tin vẫn lên, nếu chữ đúng thì hiện sai thị trường. (B) để trống → tin mất khỏi cổng, thêm một lần đối chiếu.
+Cây hai nhánh. Gốc: «Nhóm khai một thị trường, chữ nêu tên phường của thị trường khác: 2 trên 1.035 tin». (A, khuyến nghị) nhận mã thị trường của nhóm → tin vẫn lên, nếu chữ đúng thì hiện sai thị trường. (B) để trống → tin mất khỏi cổng, thêm một lần đối chiếu.
 AC liên quan: AC-1, AC-7.

diff --git a/_acceptance/s03-len-cong/contract.md b/_acceptance/s03-len-cong/contract.md
@@ -13,8 +13,8 @@ design_doc: docs/superpowers/specs/2026-11-02-s03-len-cong-design.md
 
 ## Context
 
-Kế hoạch ra mắt §3 việc 3. Cổng TR1 đòi đủ loại hình, giá, diện tích, khu vực; 891 tin S03 có giá và diện tích mà chỉ 64 có khu vực và 50 có
-loại hình. Hàng này mở hai chặn đó và gắn nhãn. AC-8, AC-9 chỉ làm được sau khi #274 gộp. Nhãn dùng để đo do tác tử gắn, không phải nhãn vàng.
+Kế hoạch ra mắt §3 việc 3. Cổng TR1 đòi đủ loại hình, giá, diện tích, khu vực; đo 17:38Z sau lượt đêm, 1.272 tin S03 có giá và diện tích mà chỉ 39 tin S03 có khu vực và 81 có
+loại hình; đủ cả bốn trường chỉ 2 tin. Hàng này mở hai chặn đó và gắn nhãn. AC-8, AC-9 chỉ làm được sau khi #274 gộp. Nhãn dùng để đo do tác tử gắn, không phải nhãn vàng.
 
 ## Acceptance criteria
 
